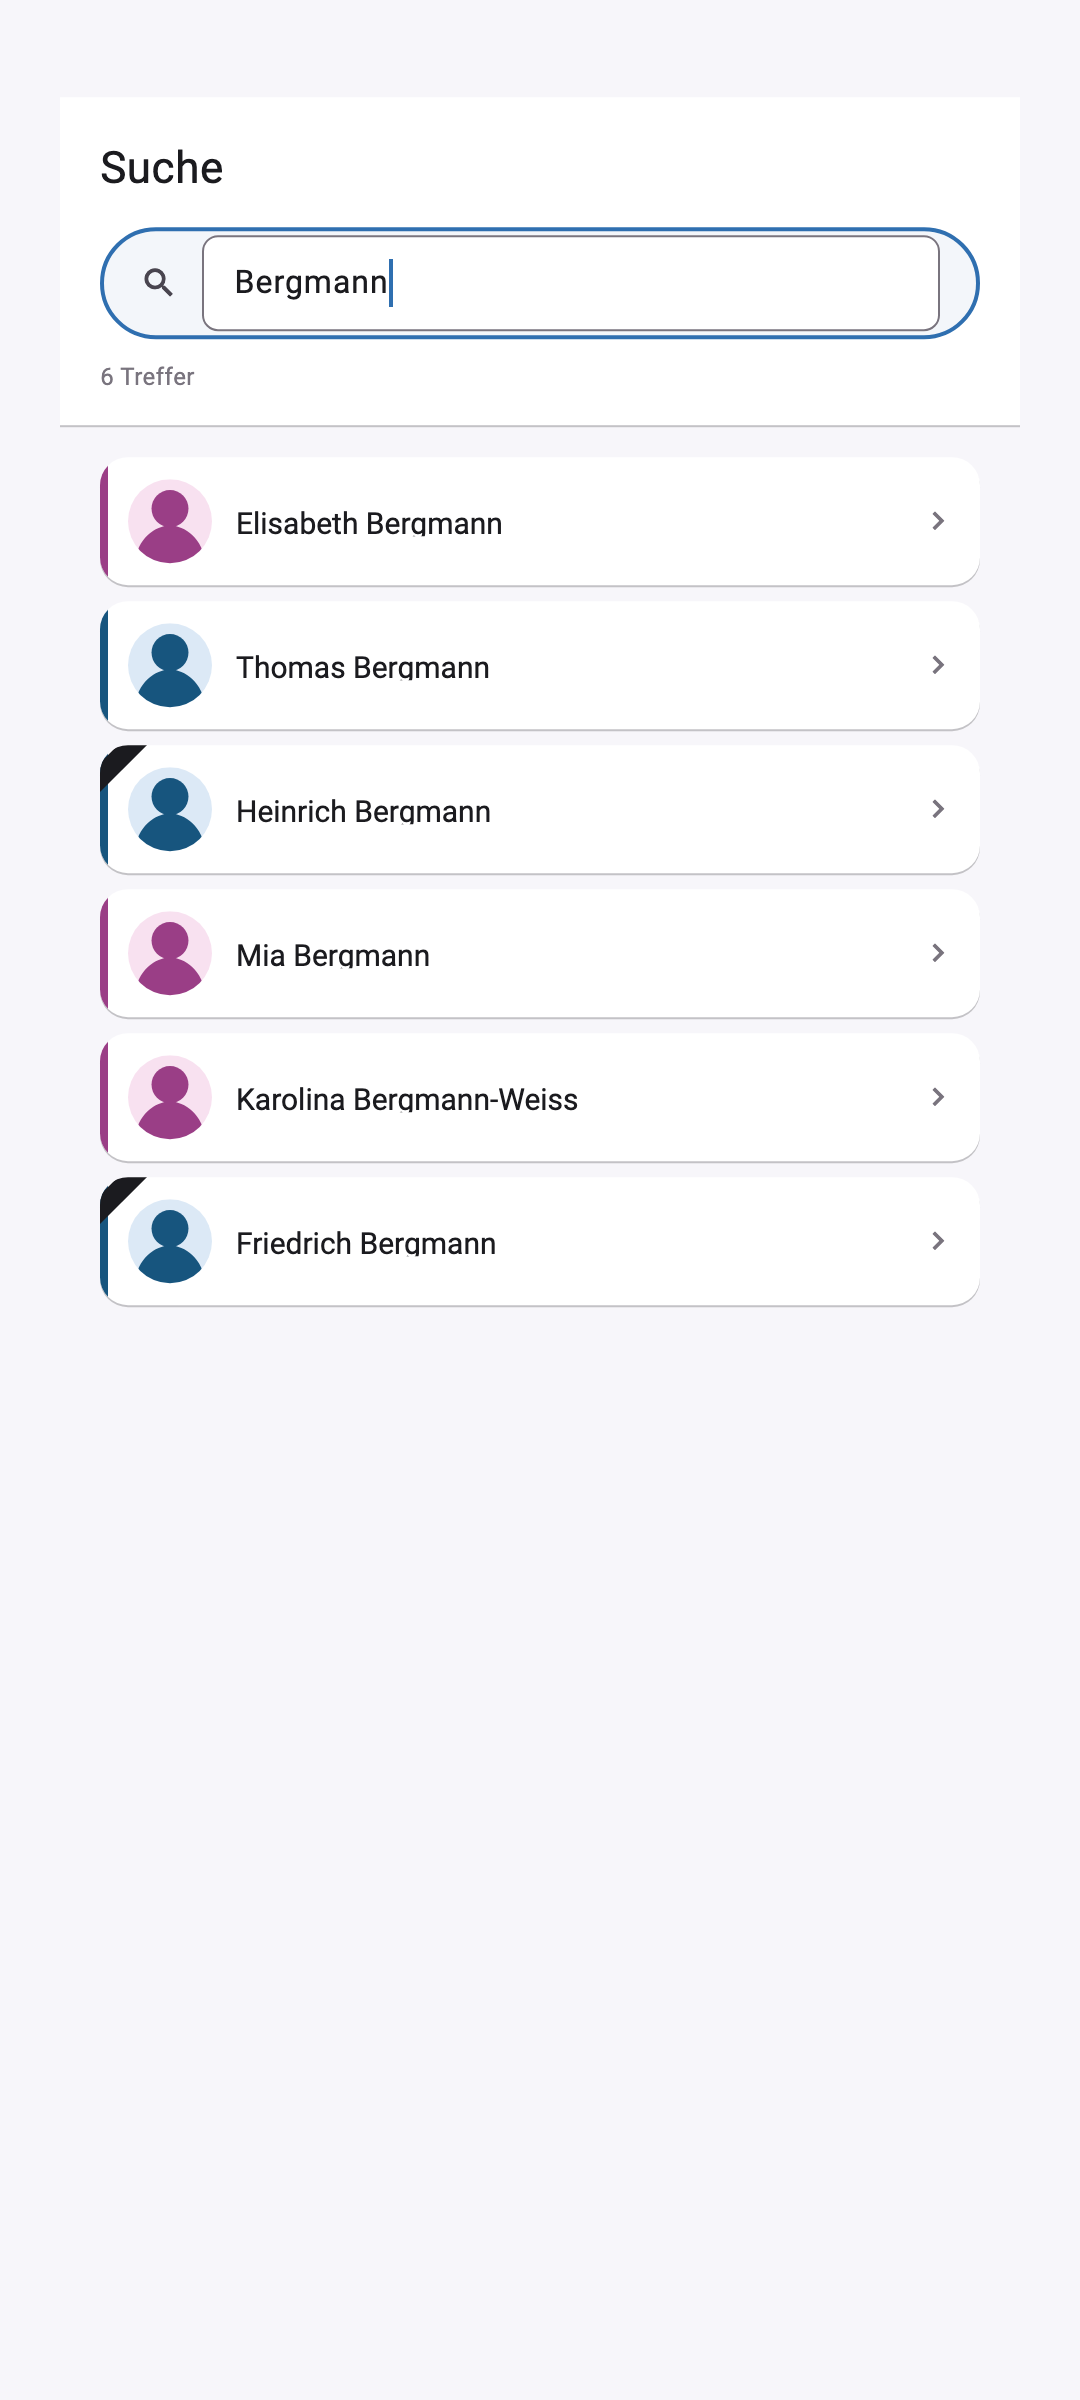
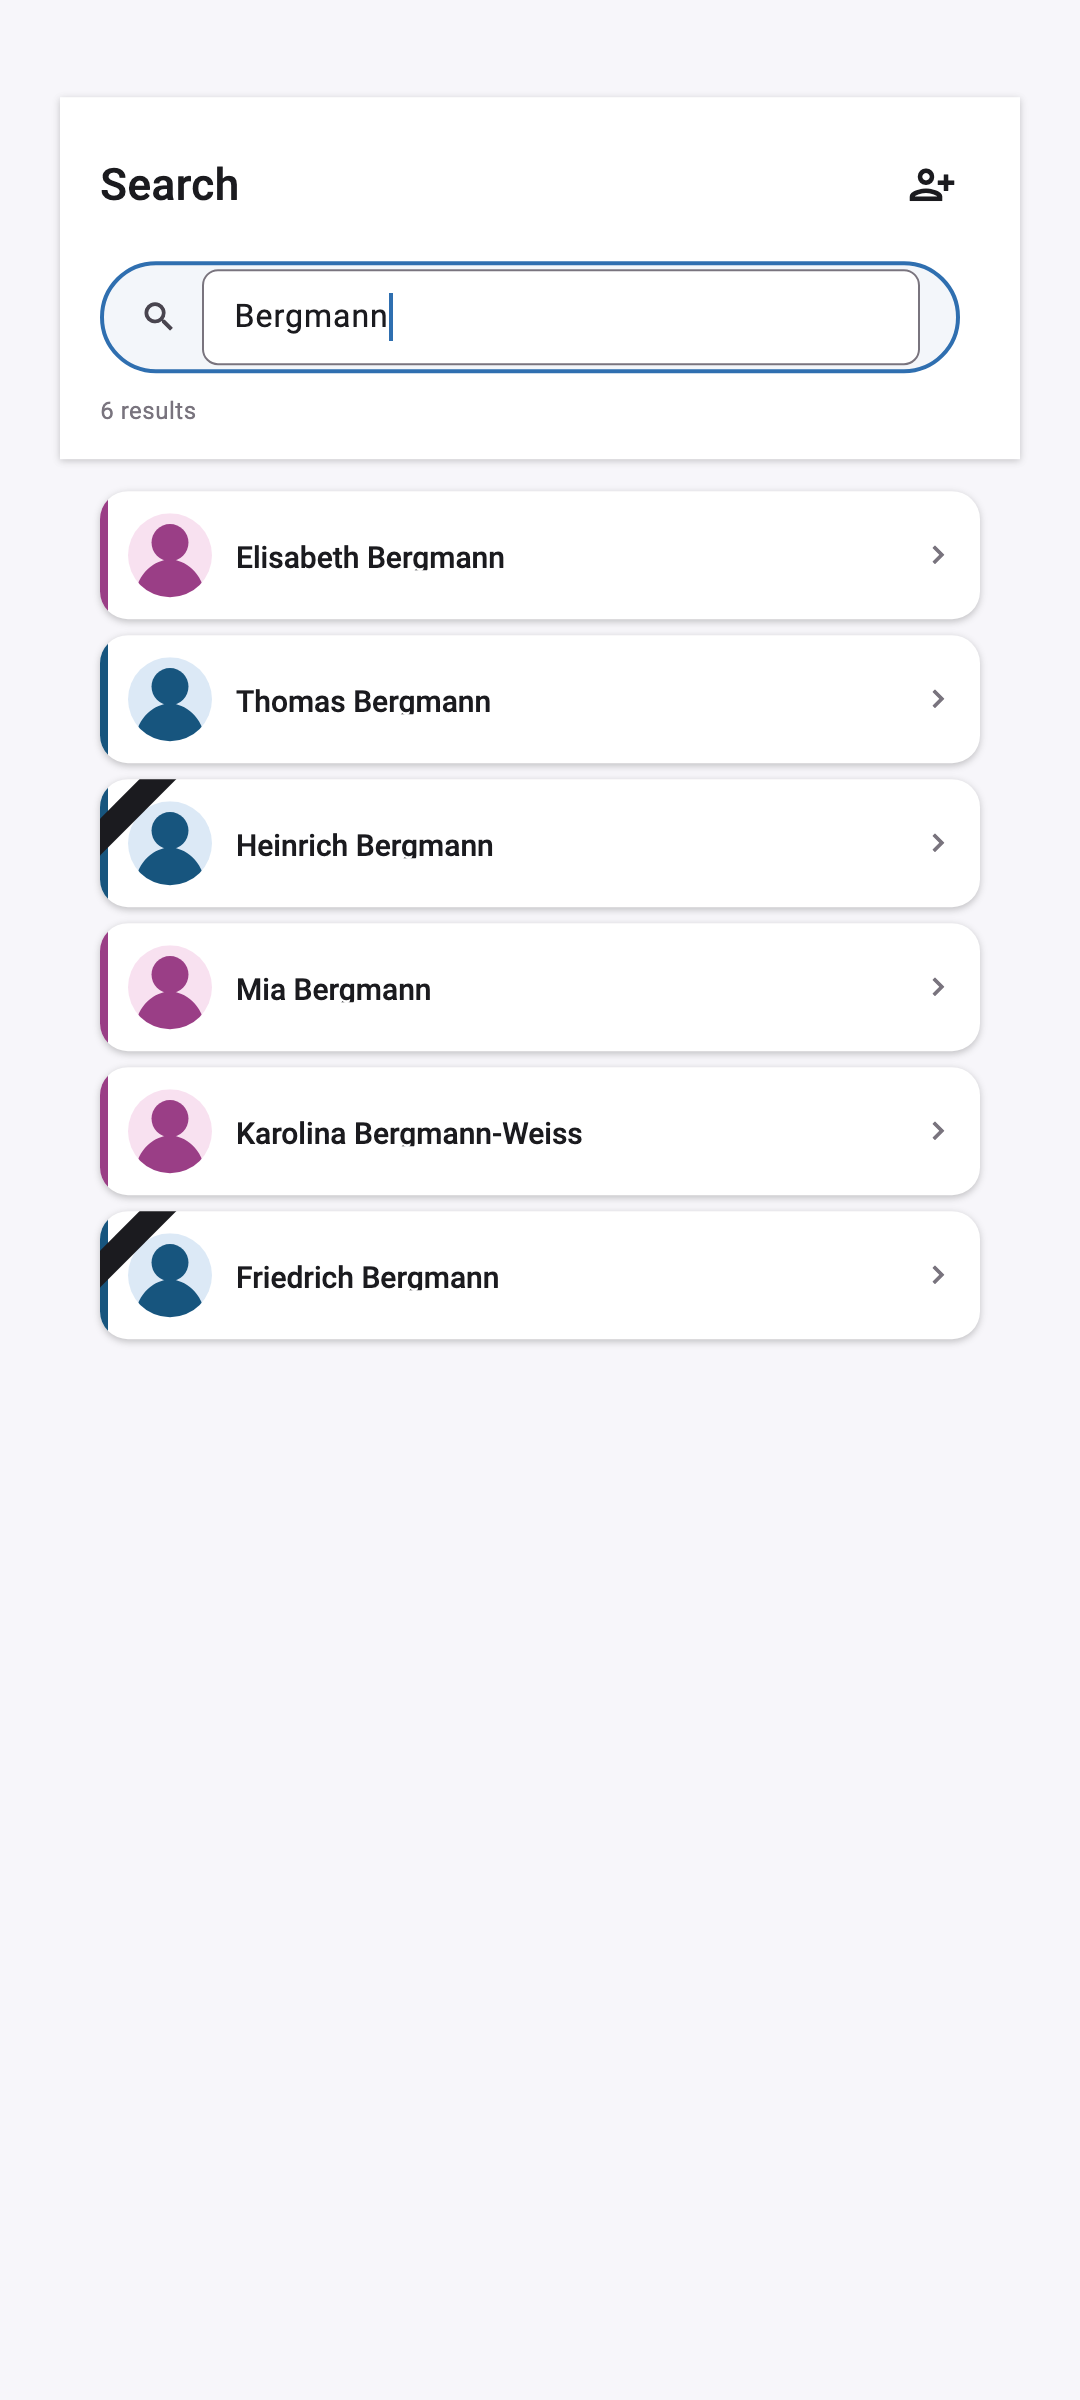
Update the README and its screenshots for the new navigation

diff --git a/README.md b/README.md
@@ -22,9 +22,10 @@ Flutter app (Android/iOS) for [webtrees](https://webtrees.net) sites. It talks t
 - **Connect to any webtrees site** – by entering its address or via the connect link from the site's "App" page (no password needed), also in a subfolder or with pretty URLs; switch between trees
 - **Sign in and register** – welcome text and registration settings as configured on the site; optional biometric lock
 - **Home** – start person, birthdays this week, responses to "Ask for help"
-- **Search** – live search with photos, lifespans and markers for deceased individuals
-- **Individuals** – all facts, parents/spouses/children/siblings, copy any value, share as text or link
-- **Family tree view** – pannable view of parents, siblings, partners and children; tap to move through the tree, undo/redo
+- **One tab each for Home, Person, Family tree and Search** – an individual always opens on the Person tab, a tree always on the Family tree tab; both start with the start person
+- **Search** – live search with photos, lifespans and markers for deceased individuals; add a person right from the search
+- **Individuals** – all facts, parents/spouses/children/siblings; relatives open in place with undo/redo; ⋮ menu to ask for help, share as text or link, edit and add a person; copy any value
+- **Family tree view** – pannable view of parents, siblings, partners and children; tap to move through the tree, undo/redo, back to the start person in one tap
 - **Edit** – edit facts and photos, add individuals and facts with place autocompletion; changes go through webtrees moderation
 - **Offline notes** – facts recorded without a connection are kept and synchronised later
 - **My account** – name, linked individual, start person
